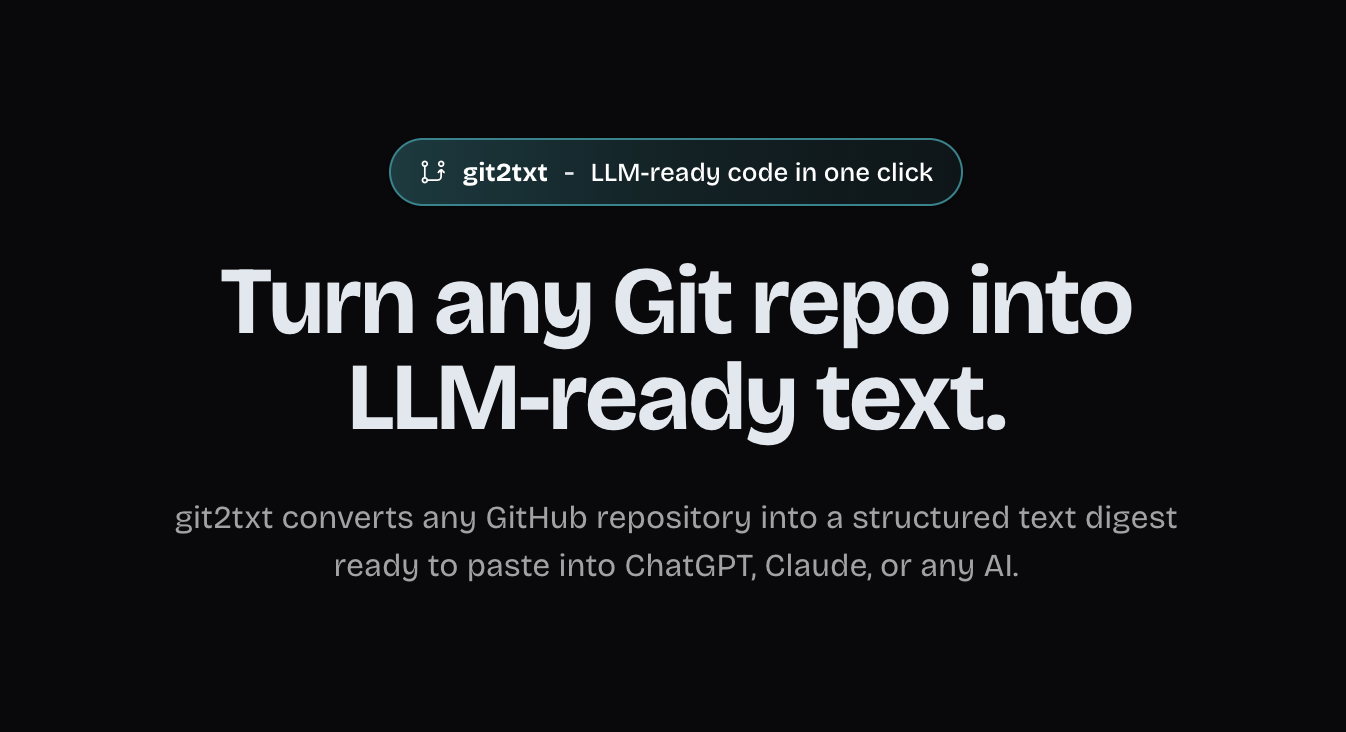
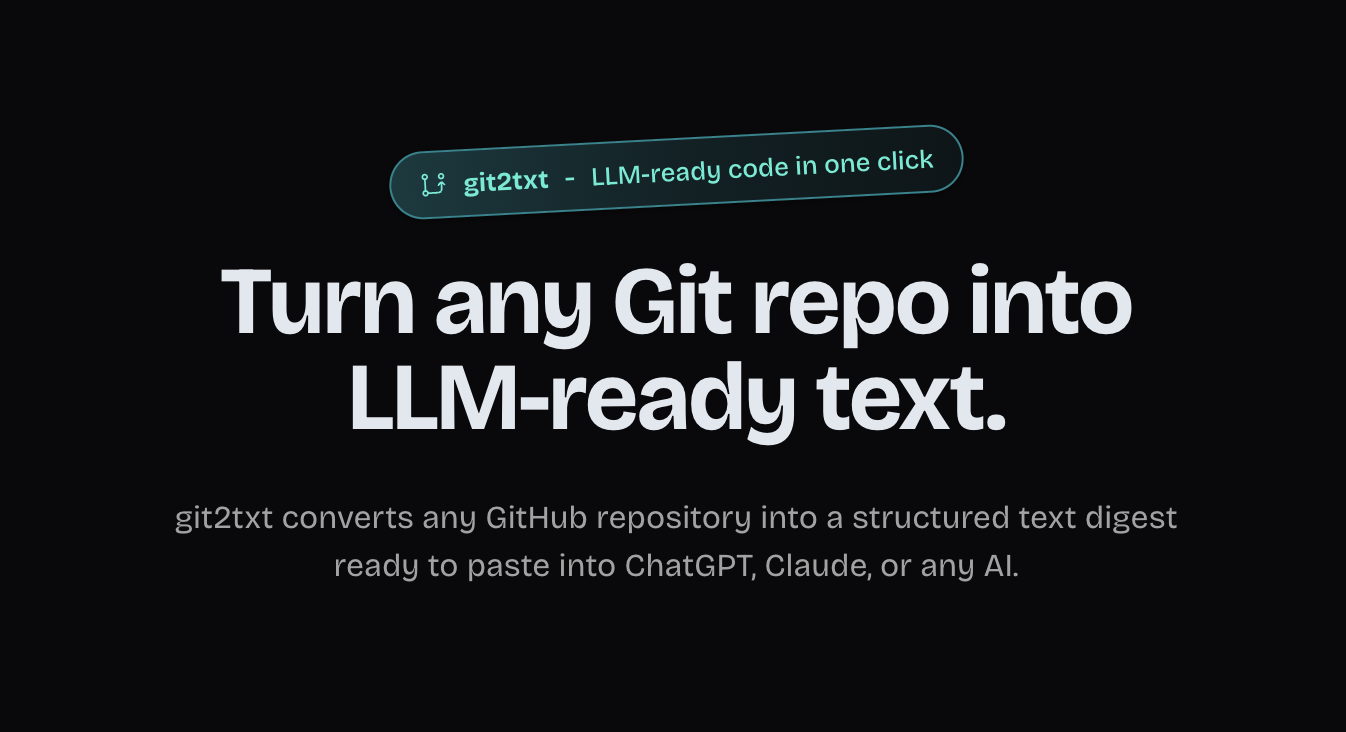
Polish UI, adjust inputs/styles, update assets
Various UI and content tweaks across components:

- Hero: visual polish (slight rotation, color/text adjustments) and simplified text classes.
- Output tabs: removed restrictive min-width/flex wrappers for tab panels, moved FilesTab out of a hidden TabsContent and commented the old block to simplify layout.
- Repo input: changed action button label to "Generate", shortened token placeholder, adjusted focus ring/padding/outline classes for pattern inputs, and minor spacing tweaks to improve UX while loading.
- State component: tightened spacing and removed the fallback "Working..." text so progress renders directly.
- Page: increased footer text size and emphasized api.github.com in the footer.
- Constants: added "shadcn-ui/ui" to example repos.
- Assets: updated public/opengraph.png.

These changes are small visual and copy improvements to improve clarity and layout consistency.

Changed region(s): [[0.2808, 0.1503, 0.7177, 0.3005]]

diff --git a/app/_components/repo-input.comp.tsx b/app/_components/repo-input.comp.tsx
@@ -133,7 +133,7 @@ export const RepoInputComp = () => {
                     />
                     <Button type="submit" size="lg" isLoading={loading}>
                       <Icons.AdjustPositionIcon />
-                      <span>Digest</span>
+                      <span>Generate</span>
                     </Button>
                   </Field>
                 </FieldGroup>
@@ -153,7 +153,7 @@ export const RepoInputComp = () => {
                     })
                   }
                   disabled={loading}
-                  placeholder="github_pat_... or ghp_... (only sent to api.github.com)"
+                  placeholder="github_pat_... or ghp_..."
                   className="h-10 font-mono"
                 />
                 {tokenKind === "fine_grained" ? (
@@ -262,7 +262,7 @@ export const RepoInputComp = () => {
                     <div
                       className={cn(
                         "flex min-h-9 w-full flex-wrap items-center gap-1.5 rounded-lg border border-border bg-card px-3 py-1.5 text-sm squircle sm:rounded-xl md:rounded-2xl lg:rounded-3xl",
-                        "focus-within:border-ring focus-within:ring-3 focus-within:ring-ring/50",
+                        "focus-within:border-ring focus-within:ring-0 focus-within:ring-ring/50",
                         loading && "pointer-events-none opacity-50"
                       )}
                     >
@@ -294,7 +294,7 @@ export const RepoInputComp = () => {
                             ? "*.ts, *.tsx, *.md  (empty = all)"
                             : "Add pattern..."
                         }
-                        className="flex-1 border-none bg-transparent p-0 font-mono text-xs outline-none placeholder:text-muted-foreground"
+                        className="flex-1 border-none bg-transparent p-0 font-mono text-xs outline-0 placeholder:text-muted-foreground"
                         disabled={loading}
                       />
                     </div>
@@ -308,8 +308,8 @@ export const RepoInputComp = () => {
                     <Label>Exclude patterns</Label>
                     <div
                       className={cn(
-                        "flex min-h-9 w-full flex-wrap items-center gap-1.5 rounded-lg border border-border bg-card px-3 py-1.5 text-sm squircle sm:rounded-xl md:rounded-2xl lg:rounded-3xl",
-                        "focus-within:border-ring focus-within:ring-3 focus-within:ring-ring/50",
+                        "flex min-h-9 w-full flex-wrap items-center gap-1.5 rounded-lg border border-border bg-card px-3 py-2.5 text-sm squircle sm:rounded-xl md:rounded-2xl lg:rounded-3xl",
+                        "focus-within:border-ring focus-within:ring-0 focus-within:ring-ring/50",
                         loading && "pointer-events-none opacity-50"
                       )}
                     >
@@ -341,7 +341,7 @@ export const RepoInputComp = () => {
                             ? "node_modules/**, .git/**"
                             : "Add pattern..."
                         }
-                        className="flex-1 border-none bg-transparent p-0 font-mono text-xs outline-none placeholder:text-muted-foreground"
+                        className="flex-1 border-none bg-transparent p-0 font-mono text-xs outline-0 placeholder:text-muted-foreground"
                         disabled={loading}
                       />
                     </div>

diff --git a/app/_components/hero.comp.tsx b/app/_components/hero.comp.tsx
@@ -5,14 +5,14 @@ import { Icons } from "hugeicons-proxy"
 export const HeroComp = () => {
   return (
     <Container size="sm" className="py-20 text-center">
-      <div className="group relative mx-auto mb-6 inline-flex cursor-default items-center gap-2 rounded-full border border-primary bg-linear-to-r from-primary/40 via-primary/20 to-primary/10 px-3.5 py-1 shadow-2xl shadow-primary/20 transition-all duration-500 hover:shadow-primary/80">
+      <div className="group relative mx-auto mb-6 inline-flex -rotate-3 cursor-default items-center gap-2 rounded-full border border-primary bg-linear-to-r from-primary/40 via-primary/20 to-primary/10 px-3.5 py-1 text-teal-300 shadow-2xl shadow-primary/20 transition-all duration-500 hover:shadow-primary/80">
         <div className="absolute inset-0 rounded-full bg-linear-to-r from-primary/0 via-primary/50 to-primary/0 opacity-0 blur-md transition-opacity duration-500 group-hover:opacity-100" />
-        <Icons.GitBranchIcon className="relative z-10 size-3.5 text-primary-foreground transition-transform duration-500 group-hover:rotate-12" />
-        <span className="relative z-10 text-[13px] font-bold text-primary-foreground">
+        <Icons.GitBranchIcon className="relative z-10 size-3.5 transition-transform duration-500 group-hover:rotate-12" />
+        <span className="relative z-10 text-[13px] font-bold">
           {siteConfig.name}
         </span>
         <span>-</span>
-        <span className="relative z-10 text-[13px] font-medium text-primary-foreground">
+        <span className="relative z-10 text-[13px] font-medium">
           {siteConfig.slogan}
         </span>
       </div>

diff --git a/app/_components/output-tabs.comp.tsx b/app/_components/output-tabs.comp.tsx
@@ -44,15 +44,15 @@ export const OutputTabsComp = () => {
                 </TabsTrigger>
               </TabsList>
 
-              <TabsContent value="summary" className="mt-5 min-w-0 flex-1">
+              <TabsContent value="summary" className="mt-5">
                 <SummaryTab data={data} />
               </TabsContent>
-              <TabsContent value="tree" className="mt-5 min-w-0 flex-1">
+              <TabsContent value="tree" className="mt-5">
                 <TreeTab data={data} />
               </TabsContent>
-              <TabsContent value="files" className="mt-5 min-w-0 flex-1">
-                <FilesTab files={data.files} />
-              </TabsContent>
+              {/* <TabsContent value="files" className="mt-5">
+              </TabsContent> */}
+              <FilesTab files={data.files} />
             </Tabs>
           </CardHeader>
         </Card>

diff --git a/app/_components/state.comp.tsx b/app/_components/state.comp.tsx
@@ -17,11 +17,11 @@ export const StateComp = () => {
         <Container className="mt-16">
           <Card>
             <CardHeader>
-              <div className="flex items-center gap-2 text-[13px] text-muted-foreground">
+              <div className="flex items-center gap-1.5 text-[13px] text-muted-foreground">
                 <Loader className="size-3.5 animate-spin" />
-                <span>{progress ?? "Working..."}</span>
+                <span>{progress}</span>
               </div>
-              <div className="mt-6 space-y-3">
+              <div className="mt-4 space-y-3">
                 <Skeleton className="h-5 w-1/3" />
                 <Skeleton className="h-4 w-2/3" />
                 <Skeleton className="h-4 w-1/2" />

diff --git a/app/page.tsx b/app/page.tsx
@@ -13,9 +13,9 @@ export default function Page() {
       <StateComp />
       <OutputTabsComp />
       <Container size="md" className="py-16">
-        <footer className="text-center text-[13px] text-muted-foreground">
+        <footer className="text-center text-sm text-muted-foreground">
           Runs entirely in your browser. Your GitHub token, if provided, is sent
-          only to api.github.com.
+          only to <strong className="text-foreground">api.github.com</strong>.
         </footer>
       </Container>
       <BottomBarComp />

diff --git a/lib/constants.ts b/lib/constants.ts
@@ -3,6 +3,7 @@ export const CONST_EXAMPLES = [
   "facebook/react",
   "vercel/next.js",
   "openai/codex",
+  "shadcn-ui/ui",
 ]
 
 export const CONST_SITE_URL =
